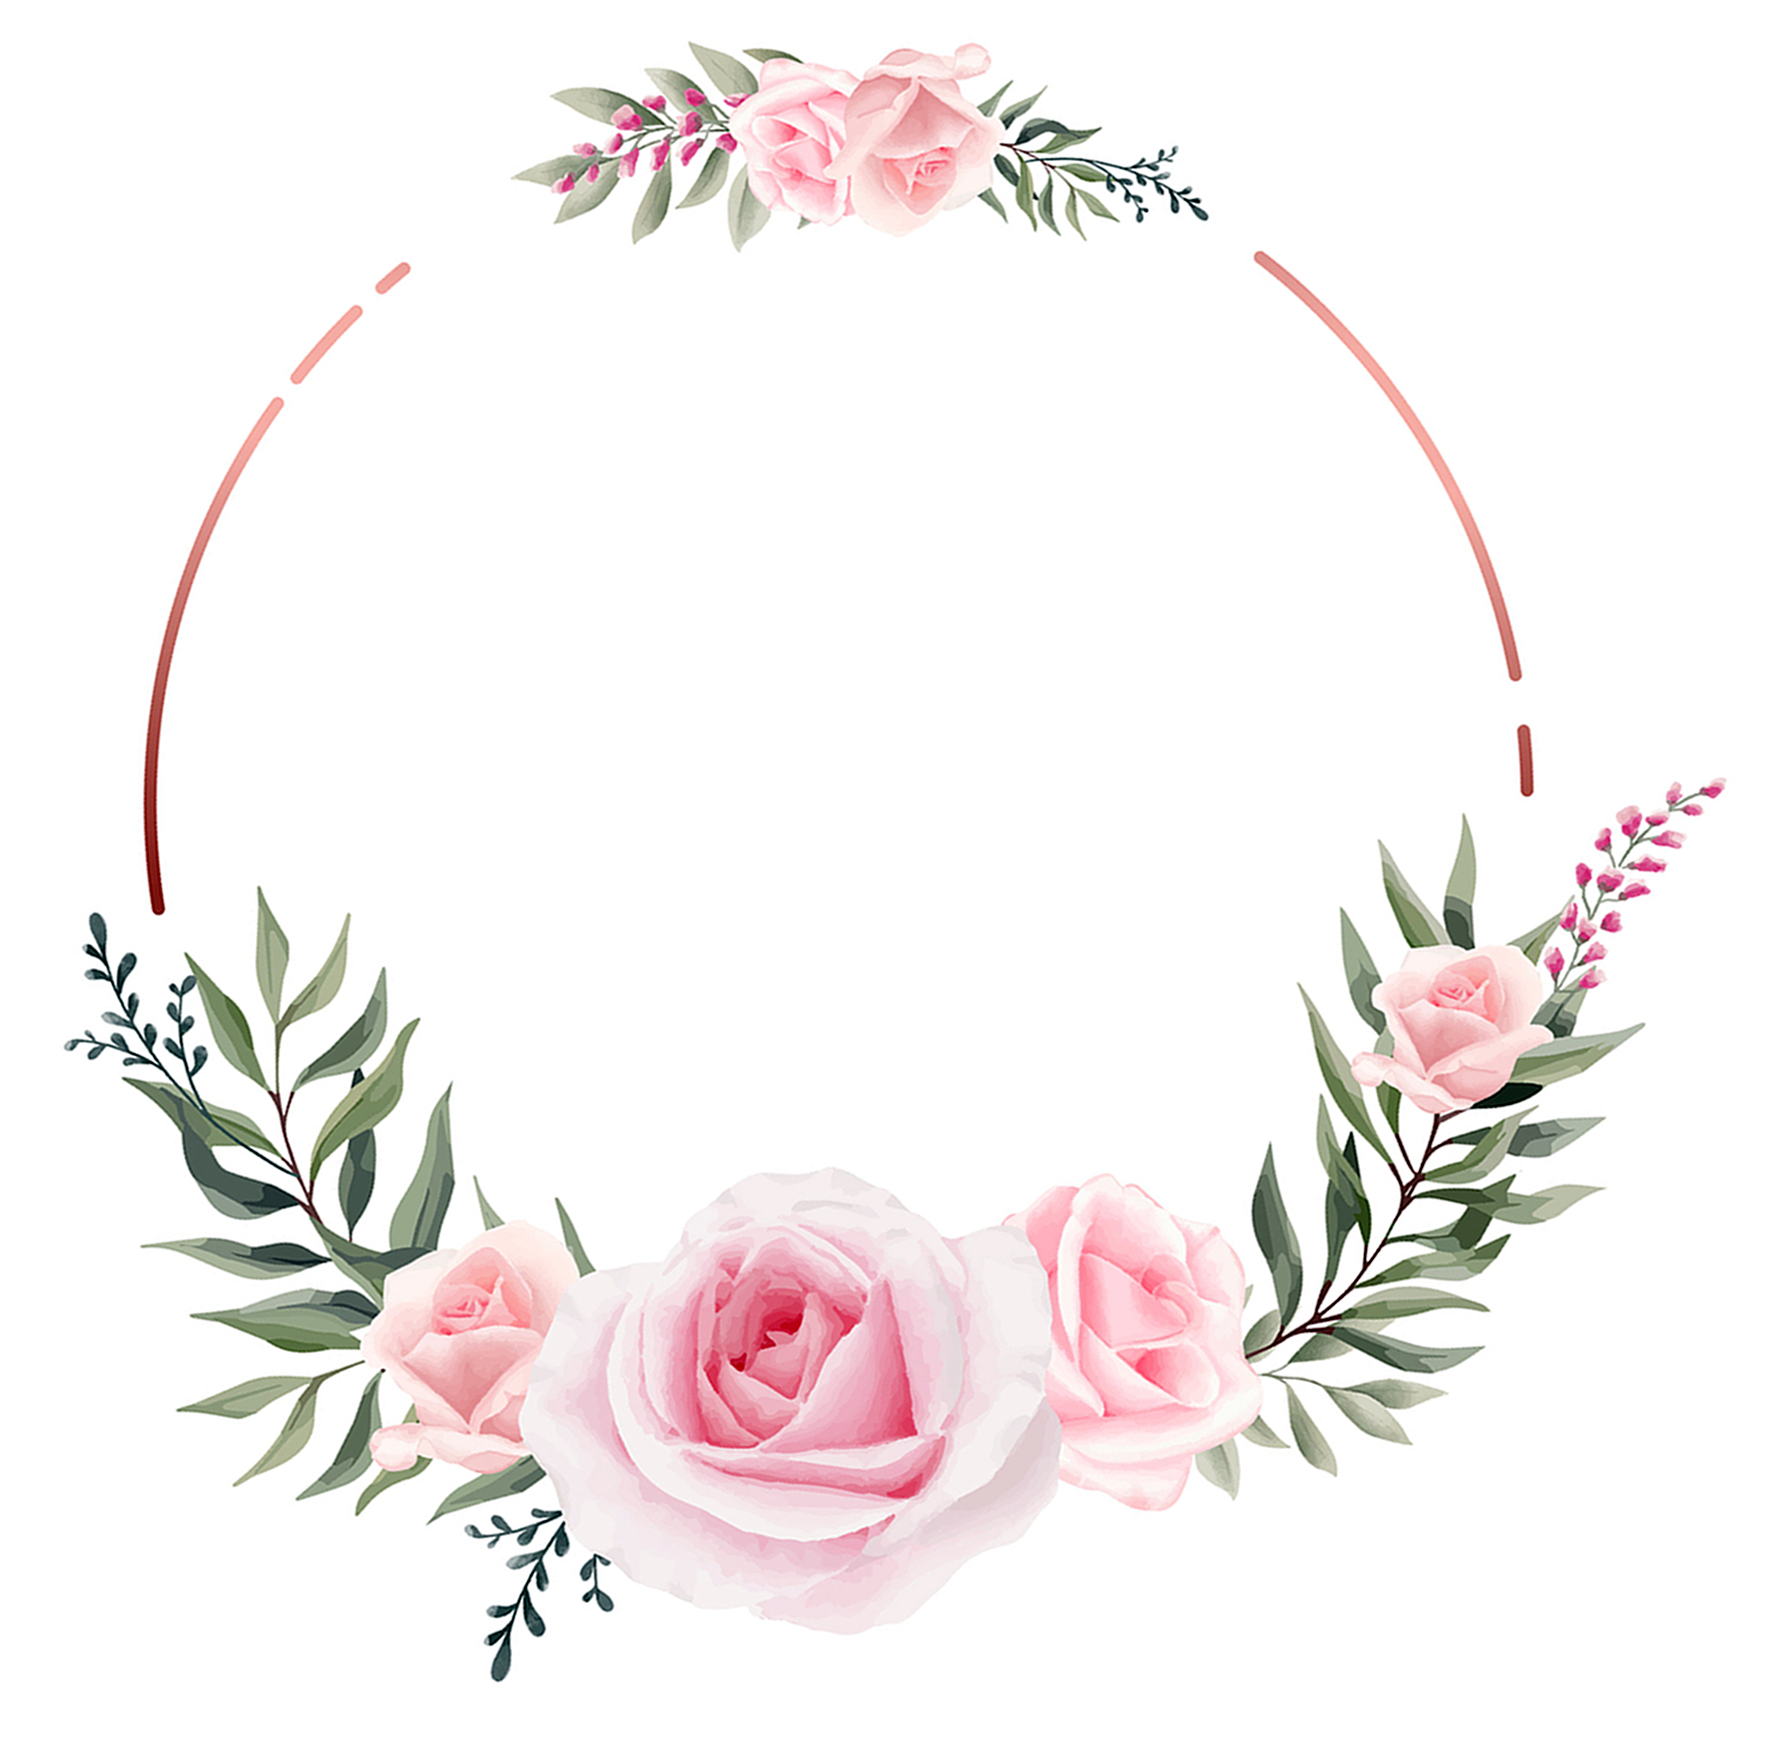
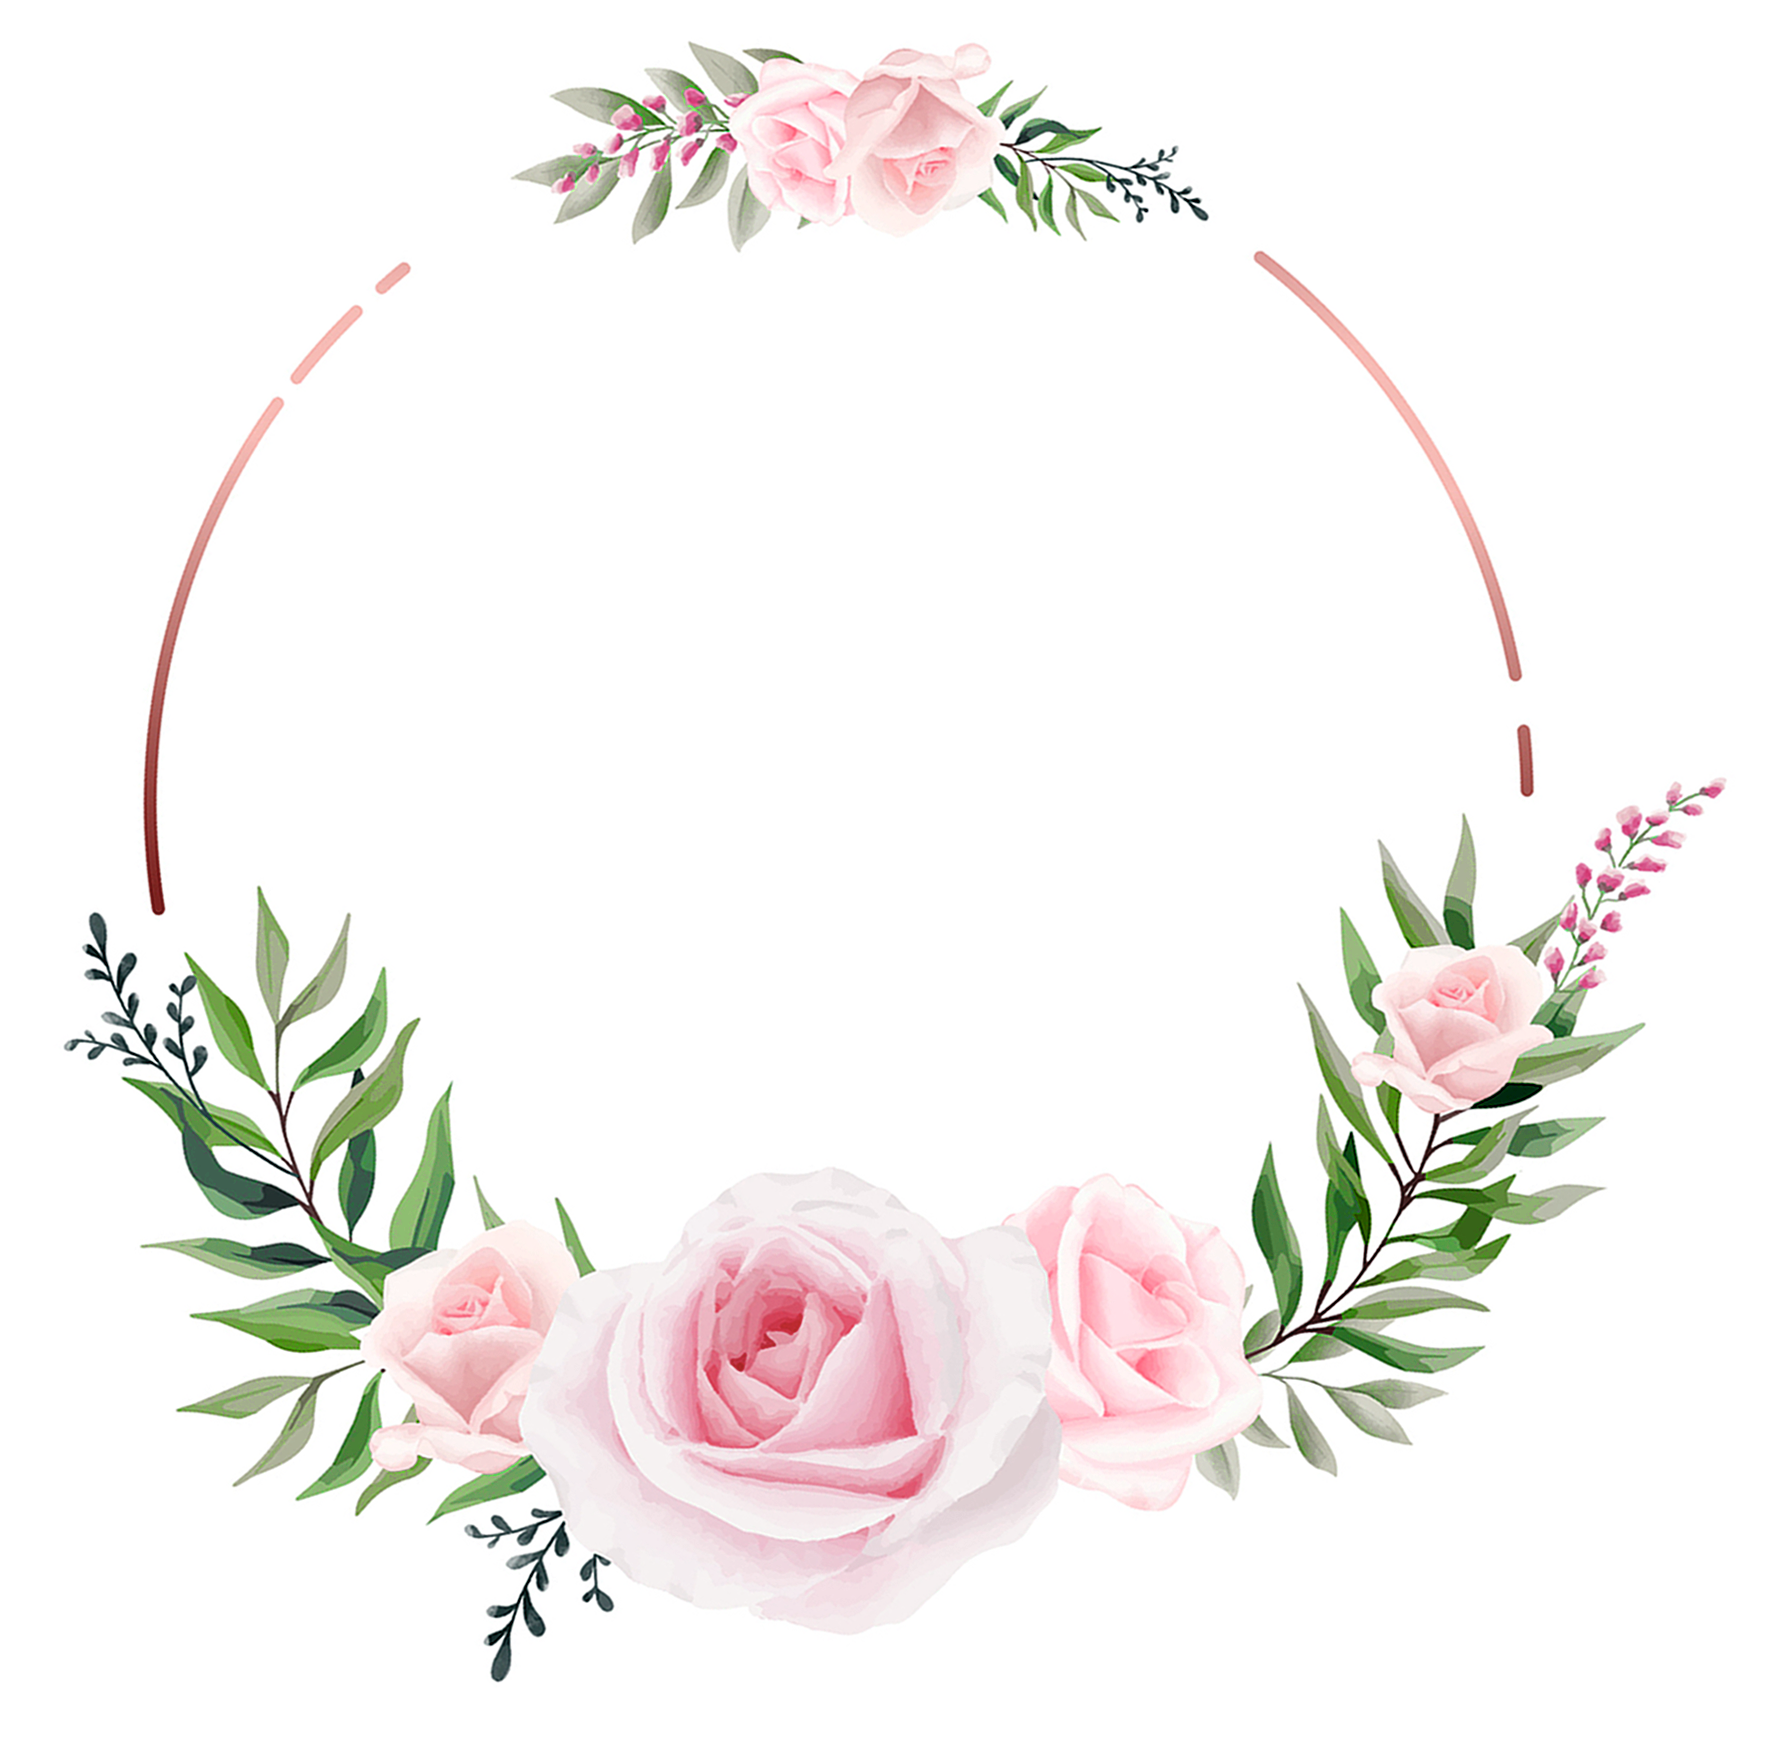
final adjustments to contact layout

diff --git a/client/src/App.scss b/client/src/App.scss
@@ -2,20 +2,21 @@
 
 :root {
   font-size: 18px;
+  caret-color: pink;
+
 }
 img {
   animation: fadeIn 3s ease-in-out forwards;
 }
 a {
-  padding: 1rem;
   text-decoration: none;
 }
 a:hover {
   cursor: url(./assets/flower.png) -5 8, auto;
-  caret-color: pink;
-  color: white;
-  transform: translateZ(0.33rem) scale(1.17);
+  color: pink;
+  transform: scale(1.17);
   transition: all 1s;
+  border-radius: .22rem;
 }
 
 .App {
@@ -86,6 +87,7 @@ a:hover {
       font-weight: 600;
       font-size: inherit;
       color: $tealish;
+      padding: .66rem;
       a {
         color: inherit;
       }
@@ -112,7 +114,8 @@ a:hover {
   }
 
   #contactBox {
-    display: flex;
+     margin-top: 2rem;
+     display: flex;
     flex-flow: column nowrap;
     justify-content: flex-end;
     align-items: space-between;
@@ -126,6 +129,8 @@ a:hover {
       flex: 1 0 100%;
       max-height: 30%;
       font-size: 1rem;
+      font-style: italic;
+      font-weight: lighter;
       letter-spacing: .16rem;
       margin: 1rem;
 
@@ -136,11 +141,14 @@ a:hover {
       width: 7rem;
       margin: auto;
       left: 50%;
-      margin-top: 4.05rem;
+      margin-top: 2.66rem;
       transform: translate(-50%, 0);
     }
     .details h2 {
-      margin-bottom: 2.5rem;
+      margin: 1.66rem auto .66rem;
+    }
+    .details a:hover {
+      background-color: rgba(255, 216, 228, 0.33);
     }
     
   }
@@ -167,10 +175,9 @@ a:hover {
 
 #mainSection {
   width: 100%;
-  height: 12rem;
+  height: 15rem;
   font-family: $nanum;
-  padding: 3% 11% 9%;
-  padding-top: 3%;
+  padding: 0;
   color: $white;
   background-color: rgba(225, 210, 198, 0.83);
   box-shadow: 0 0px 6px rgba(0, 22, 17, 0.1), 0 0px 10px rgba(0, 22, 17, 0.1),
@@ -274,12 +281,11 @@ a:hover {
   width: 100vw;
   height: auto;
   z-index: -1;
-  filter: saturate(.7);
+  filter: saturate(.9) brightness(1.05);
 
   img {
     width: 13rem;
     padding: 1rem;
-    filter: opacity(.9)
   }
   img:hover {
      transform: rotate(180deg);
@@ -328,20 +334,18 @@ a:hover {
   #mainSection {
     grid-template-columns: 100%;
     grid-template-rows: 16rem 16rem 16rem;
-    .contentBox {
-      margin: 0;
-    }
   }
   #fixedBar {
     #linkBox {
       margin-right: 0.33rem;
+      padding: 1rem;
     }
   }
   #bannerBox {
     margin-bottom: 4rem;
   }
   #linkBox a {
-    padding: 0.55rem;
+    padding: 1rem;
   }
 }
 

diff --git a/client/src/components/Contact.js b/client/src/components/Contact.js
@@ -24,7 +24,14 @@ const Contact = () => {
          </section>
             
          <section className="details">
-            <button>Send Flowers</button>
+            <button onClick={((e) => {
+               e.preventDefault();
+               return (
+                  <form>
+                     <textarea style={{width: "66%"}}></textarea>
+                  </form>
+               )
+            })}>Compose Message</button>
          </section>
             
       </>

diff --git a/client/src/App.js b/client/src/App.js
@@ -5,7 +5,7 @@ import {
    ApolloProvider,
    createHttpLink,
 } from "@apollo/client";
-import { BrowserRouter, Routes, Route } from "react-router-dom";
+import { BrowserRouter } from "react-router-dom";
 
 import {
    setContext
